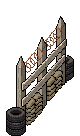
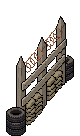
Barricade art: tiers 1-3 PixelLab (80x136 box, matched wood), per-state tap areas, DEV barricade preview, front line gap 28->40, sw v348
Claude-Session: https://claude.ai/code/session_01ApSBA65kmjiwNdNQQrdUCu

diff --git a/sw.js b/sw.js
@@ -15,7 +15,7 @@
  * edited CSS/JS) so returning users pick up the update instead of serving a
  * stale cached shell forever — the whole point of a version string here.
  */
-const CACHE_NAME = 'deadline-shell-v347';
+const CACHE_NAME = 'deadline-shell-v348';
 
 const APP_SHELL = [
     './',
